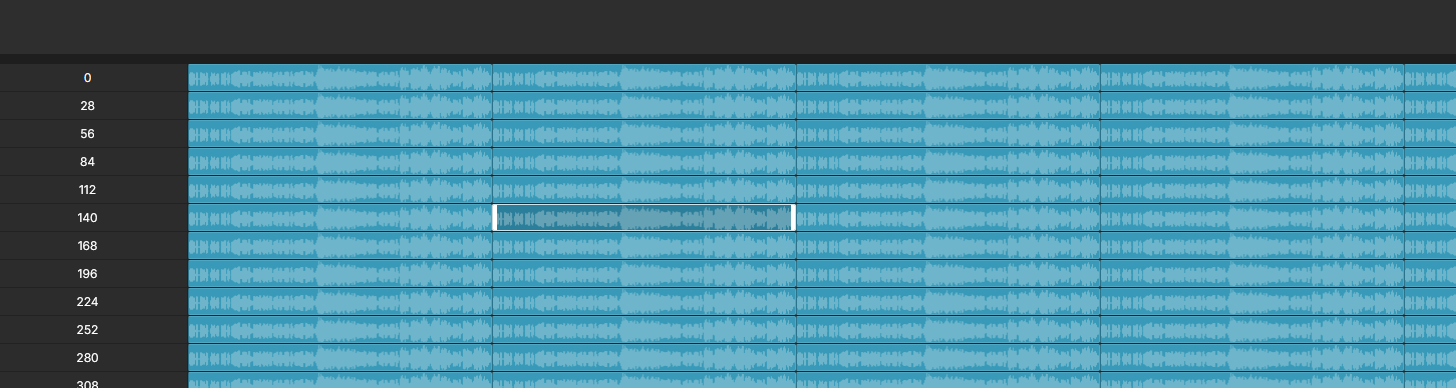
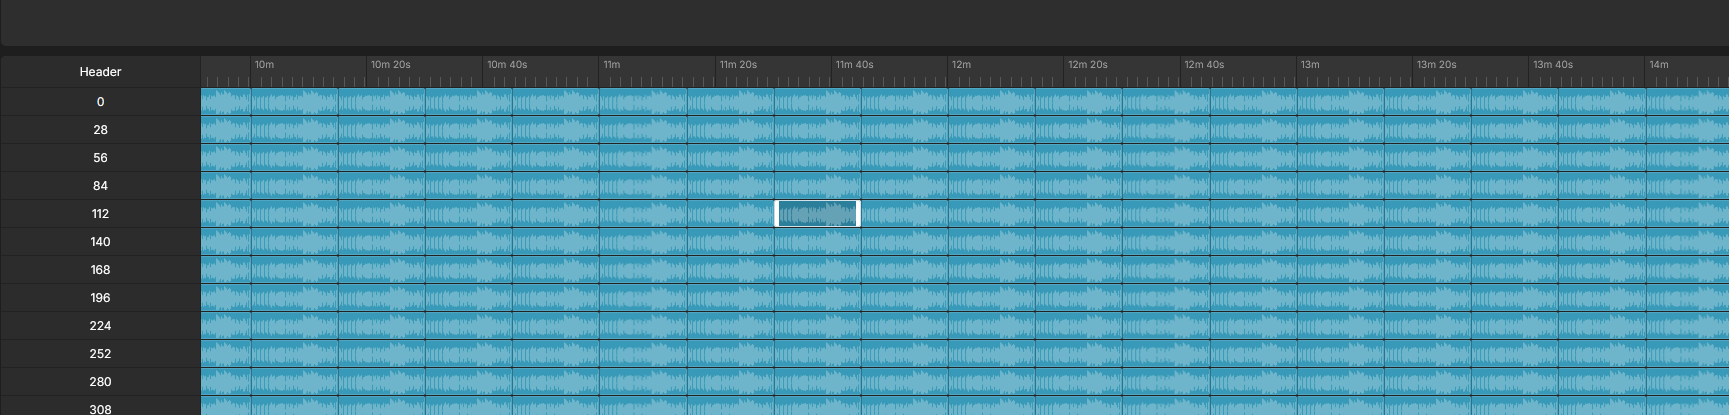
feat(timeline): sub-ticks in docs

diff --git a/packages/timeline/src/core/features/ruler.ts b/packages/timeline/src/core/features/ruler.ts
@@ -1,6 +1,9 @@
 import { TimelineFeature } from "../types";
+import { memoize } from "../utils/memoize.ts";
 import { getTickIntervalTime } from "../utils/ruler.ts";
 import { timeToWidth } from "../utils/scale.ts";
+
+import { ViewportState } from "./core.ts";
 
 export declare namespace Ruler {
   export interface Options {
@@ -26,10 +29,9 @@ export const RulerFeature: TimelineFeature<{}, Ruler.Options, Ruler.State> = {
     };
   },
   createTimeline: (api) => {
-    api.eventEmitter.on("viewport:updated", (viewport) => {
-      const tickIntervalTime = getTickIntervalTime(viewport, 100);
-      api.setState((draft) => {
-        draft.tickIntervalTime = tickIntervalTime;
+    const getTicks = memoize(
+      (viewport: ViewportState) => {
+        const tickIntervalTime = getTickIntervalTime(viewport, 100);
         const ticksCount =
           Math.ceil(viewport.viewportDuration / tickIntervalTime) + 1;
 
@@ -43,20 +45,39 @@ export const RulerFeature: TimelineFeature<{}, Ruler.Options, Ruler.State> = {
           viewport.viewportDuration,
         );
 
-        draft.ticks = Array.from({ length: ticksCount }, (_, i) => {
-          const time = i * tickIntervalTime + scrollDelta * tickIntervalTime;
-          return {
-            time: time,
-            width: tickWidth,
-            left: timeToWidth(
-              time,
-              viewport.viewportWidth,
-              viewport.viewportDuration,
-            ),
-          };
-        });
+        return {
+          ticks: Array.from({ length: ticksCount }, (_, i) => {
+            const time = i * tickIntervalTime + scrollDelta * tickIntervalTime;
+            return {
+              time: time,
+              width: tickWidth,
+              left: timeToWidth(
+                time,
+                viewport.viewportWidth,
+                viewport.viewportDuration,
+              ),
+            };
+          }),
+          tickIntervalTime,
+        };
+      },
+      (viewport) => {
+        return [
+          viewport.viewportWidth,
+          viewport.viewportDuration,
+          viewport.chunkedPosition.offset,
+        ];
+      },
+    );
+
+    api.eventEmitter.on("viewport:updated", (viewport) => {
+      api.setState((draft) => {
+        const { ticks, tickIntervalTime } = getTicks(viewport);
+        draft.ticks = ticks;
+        draft.tickIntervalTime = tickIntervalTime;
       });
     });
+
     return {};
   },
 };

diff --git a/packages/timeline/src/docs.tsx b/packages/timeline/src/docs.tsx
@@ -53,7 +53,12 @@ export function Docs() {
               Header
             </Timeline.RulerHeader>
             <Timeline.RulerTicks>
-              {(time) => <div className="docs-tick">{millsToTime(time)}</div>}
+              {(time) => (
+                <div className="docs-tick">
+                  {millsToTime(time)}
+                  <span className="docs-subticks" />
+                </div>
+              )}
             </Timeline.RulerTicks>
           </Timeline.Ruler>
           <Timeline.Tracks>

diff --git a/packages/timeline/src/index.css b/packages/timeline/src/index.css
@@ -100,10 +100,27 @@
 }
 
 .docs-tick {
+  position: relative;
   width: 100%;
   height: 100%;
   border-right: 1px solid #222222;
   padding: 2px 4px;
   font-size: 10px;
   color: #9f9f9f;
+}
+
+.docs-subticks {
+  position: absolute;
+  bottom: 0;
+  left: calc(10% - 1px);
+  right: 1px;
+  height: 10px;
+  overflow: hidden;
+  background: repeating-linear-gradient(
+    to right,
+    #575757,
+    #575757 1px,
+    transparent 1px,
+    transparent 10%
+  );
 }

diff --git a/packages/timeline/src/core/features/core.ts b/packages/timeline/src/core/features/core.ts
@@ -19,7 +19,7 @@ type ChunkedPosition = {
   offset: number; // Offset within the chunk
 };
 
-type ViewportState = {
+export type ViewportState = {
   viewportWidth: number;
   viewportDuration: number;
   timelineWidth: number;

diff --git a/packages/timeline/src/core/utils/ruler.ts b/packages/timeline/src/core/utils/ruler.ts
@@ -45,7 +45,6 @@ export function getTickIntervalTime(
       viewport.viewportDuration,
     );
 
-    console.log(duration, width);
     if (width >= expectedWidth) {
       return duration;
     }
